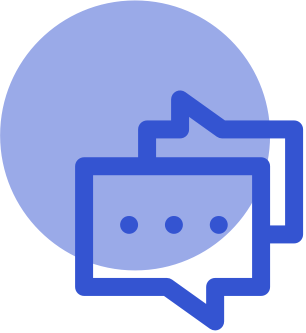
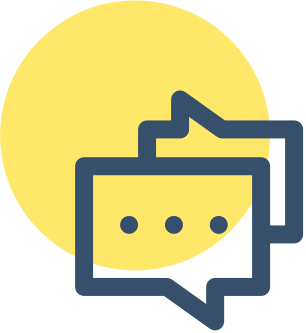
Brand colors choice 2

diff --git a/app/assets/stylesheets/pages/_home.scss b/app/assets/stylesheets/pages/_home.scss
@@ -23,7 +23,7 @@ body {
   padding-top: 0;
   margin-top: 0;
   display: inline-block;
-  color: white;
+  color: $blue;
 }
 
 .features-icon {
@@ -32,16 +32,17 @@ body {
 }
 
 #features {
-  padding-top: 30px;
-  padding-bottom: 100px;
+  padding-top: 70px;
+  padding-bottom: 70px;
 }
 
 #search-section {
   padding-top: 30px;
   padding-bottom: 100px;
+  background-color: $blue;
   h2 {
     border-bottom: none;
-    color: $blue;
+    color: white;
   }
   form {
     margin-top: 30px;
@@ -65,11 +66,7 @@ body {
 }
 
 #features-wrapper {
-  background-color: #3454D1;
 }
 
 #features-items {
-  background-color: white;
-  padding: 30px;
-  box-shadow: 0 0 30px rgba(0, 0, 0, 0.25);
 }

diff --git a/app/assets/stylesheets/layout/_utilities.scss b/app/assets/stylesheets/layout/_utilities.scss
@@ -28,6 +28,10 @@
   background: #3b5998;
 }
 
+h1, h2, h3, h4, h5 {
+  color: $blue;
+}
+
 h3 {
   font-size: 20px;
   letter-spacing: 1px;
@@ -44,4 +48,11 @@ h1 {
 
 #body-wrapper {
   min-height: calc(100vh - 100px);
+}
+
+strong {
+  color: $blue;
+  border-bottom: 10px solid #FFFBD0;
+  display: inline-block;
+  line-height: 0px;
 }

diff --git a/app/assets/stylesheets/layout/_navbar.scss b/app/assets/stylesheets/layout/_navbar.scss
@@ -149,15 +149,15 @@
 .navbar-classic {
   position: static;
   .navbar-wagon-item {
-    color: $blue;
+    color: $brand-primary;
   }
   .navbar-wagon-brand {
   a {
-    color: $blue;
+    color: $brand-primary;
   }
   }
   .dropdown-toggle {
-    color: $blue;
+    color: $brand-primary;
   }
 }
 

diff --git a/app/assets/stylesheets/config/_bootstrap_variables.scss b/app/assets/stylesheets/config/_bootstrap_variables.scss
@@ -13,7 +13,7 @@ $headings-font-family:    $header-font;
 // Semantic color scheme
 // => http://getbootstrap.com/customize/#colors
 $gray-base:       $gray;
-$brand-primary:   $blue;
+$brand-primary:   $green;
 $brand-success:   $green;
 $brand-info:      $yellow;
 $brand-danger:    $red;

diff --git a/app/assets/stylesheets/pages/_distribution_show.scss b/app/assets/stylesheets/pages/_distribution_show.scss
@@ -111,7 +111,7 @@ a.distribution-link:link, a.distribution-link:visited, a.distribution-link:activ
 }
 
 .week_day {
-  background-color: $blue;
+  background-color: $brand-primary;
   color: white;
   border-radius: 20px;
   padding: 5px;

diff --git a/app/assets/stylesheets/config/_variables.scss b/app/assets/stylesheets/config/_variables.scss
@@ -27,9 +27,9 @@ $base-height: 1.4;
 $brand-color: #3454D1;
 
 $red: #EE5F5B;
-$blue: #3454D1;
+$blue: #364F6B;
 $yellow: #FFE869;
 $orange: #E67E22;
-$green: #19a974;
+$green: #57D1C9;
 $gray: #000000;
 $pink: #ED5485;

diff --git a/app/assets/stylesheets/components/_distribution_form.scss b/app/assets/stylesheets/components/_distribution_form.scss
@@ -32,7 +32,7 @@
     cursor: pointer;
   }
   &.active {
-    background-color: $blue;
+    background-color: $brand-primary;
     color: white;
     opacity: 1;
   }

diff --git a/app/assets/stylesheets/components/_banner.scss b/app/assets/stylesheets/components/_banner.scss
@@ -27,6 +27,7 @@
   text-transform: uppercase;
   border-bottom: none;
   display: block;
+  color: white;
 }
 .banner p {
   font-size: 20px;
